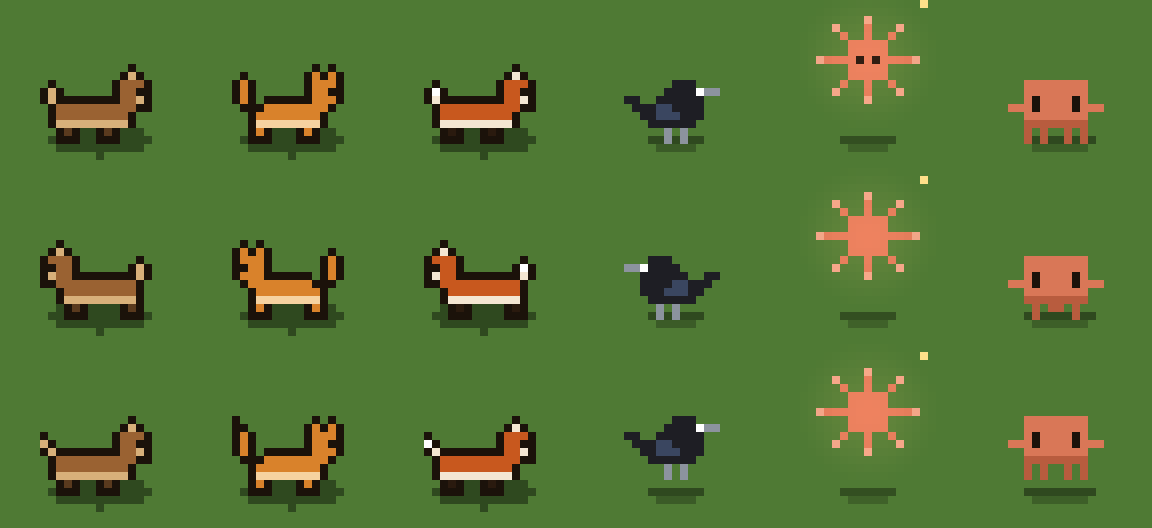
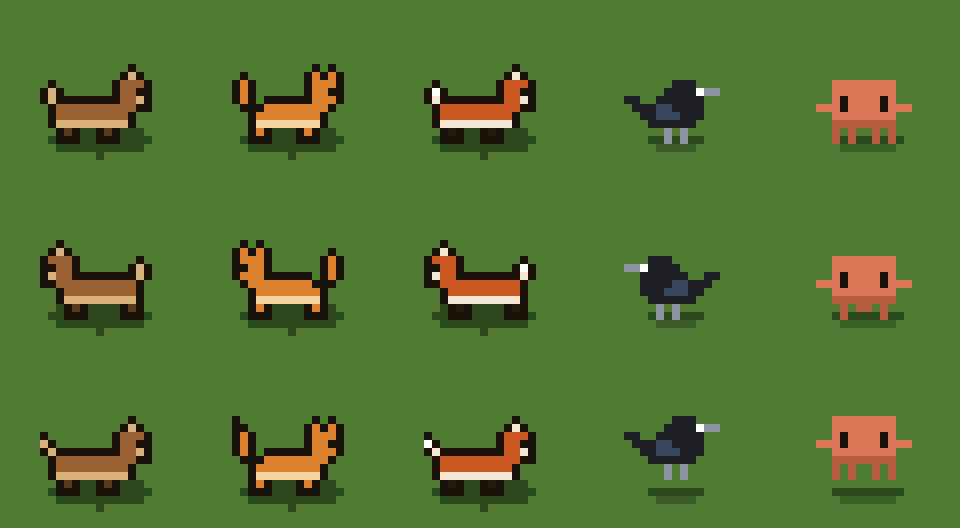
Update Ullr site from ullr@572a34f

diff --git a/ullr/docs/game.fr.md b/ullr/docs/game.fr.md
@@ -67,11 +67,15 @@ Rendez-vous au **miroir** pour habiller votre archer. L’aperçu reste en haut 
 | Coiffe | Casque, toque de fourrure, couronne de fleurs, bandeau |
 | Accessoire | Mantelet de fourrure, écharpe, amulette marteau, lunettes |
 
-**Au hasard** choisit une apparence au hasard. Votre archer tient le type de votre premier arc : classique, olympique, à poulies ou arc long.
+**Au hasard** choisit une apparence au hasard. Votre archer tient le type de votre premier arc : arc nu, arc classique ou arc à poulies.
+
+**Archers légendaires.** En haut du miroir, quatre archers tout prêts règlent toute l’apparence et le compagnon en une touche : **Artémis**, déesse grecque de la chasse, avec son chien ; **Ullr**, dieu nordique du tir à l’arc et de l’hiver, en fourrures, avec un corbeau ; **Robin des Bois**, tout en vert, avec un renard ; et **Hou Yi**, l’archer chinois qui abattit neuf soleils. Changez ensuite ce que vous voulez.
+
+![Les quatre archers légendaires de face, de profil et de dos : Artémis et son chien, Ullr et un corbeau, Robin des Bois et un renard, et Hou Yi.](images/game-legends.png){ width="420" .pixel }
 
 ## Les compagnons
 
-Choisissez un compagnon au miroir : un **chien**, un **chat**, un **renard**, un **corbeau** ou une petite **étincelle**. Il suit le chemin parcouru par votre archer, environ un pas derrière, sans jamais traverser les meubles, et s’assoit à côté de vous quand vous vous arrêtez. Le chien, le chat et le renard trottinent et remuent la queue, le corbeau sautille, et l’étincelle flotte et scintille.
+Choisissez un compagnon au miroir : un **chien**, un **chat**, un **renard**, ou un **corbeau** (et un autre à découvrir). Il suit le chemin parcouru par votre archer, environ un pas derrière, sans jamais traverser les meubles, et s’assoit à côté de vous quand vous vous arrêtez. Le chien, le chat et le renard trottinent et remuent la queue, et le corbeau sautille.
 
 ![Les quatre compagnons animaux : un chien, un chat, un renard et un corbeau.](images/game-companions.png){ width="420" .pixel }
 

diff --git a/ullr/docs/game.md b/ullr/docs/game.md
@@ -67,11 +67,15 @@ Walk to the **mirror** to dress your archer. The preview stays at the top while 
 | Headwear | Helmet, fur hat, flower crown, headband |
 | Accessory | Fur mantle, scarf, hammer amulet, glasses |
 
-**Surprise me** (*Au hasard*) picks a random look. Your archer holds the type of your first bow: recurve, Olympic recurve, compound or longbow.
+**Surprise me** (*Au hasard*) picks a random look. Your archer holds the type of your first bow: barebow, recurve or compound.
+
+**Legendary archers.** At the top of the mirror, four ready-made archers set the whole look and companion in one tap: **Artemis**, Greek goddess of the hunt, with her hound; **Ullr**, Norse god of archery and winter, in furs, with a raven; **Robin Hood** in Lincoln green, with a fox; and **Hou Yi**, the Chinese archer who shot down nine suns. Change any piece after.
+
+![The four legendary archers from the front, side and back: Artemis with her hound, Ullr with a raven, Robin Hood with a fox, and Hou Yi.](images/game-legends.png){ width="420" .pixel }
 
 ## Companions
 
-Choose a companion at the mirror: a **dog**, a **cat**, a **fox**, a **raven**, or a little **spark**. It follows the path your archer walked, about a step behind, so it never cuts through the furniture, and sits beside you when you stop. The dog, cat and fox trot and wag their tails, the raven hops, and the spark floats and twinkles.
+Choose a companion at the mirror: a **dog**, a **cat**, a **fox**, or a **raven** (and one more to discover). It follows the path your archer walked, about a step behind, so it never cuts through the furniture, and sits beside you when you stop. The dog, cat and fox trot and wag their tails, and the raven hops.
 
 ![The four animal companions: a dog, a cat, a fox and a raven.](images/game-companions.png){ width="420" .pixel }
 

diff --git a/ullr/docs/index.fr.md b/ullr/docs/index.fr.md
@@ -105,7 +105,7 @@ Activez le **mode jeu** dans les réglages et Ullr devient un petit jeu en pixel
 
 | | |
 |---|---|
-| **Toutes vos séances** | Lieu, date, type d'arc (traditionnel, classique, olympique, à poulies) et arc, distance, blason, nombre de blasons sur la butte, n'importe quel nombre de flèches par volée. |
+| **Toutes vos séances** | Lieu, date, discipline (tir sur cible, en campagne, 3D ou para-tir à l’arc), type d'arc (arc nu, classique ou à poulies) et arc, distance, blason, nombre de blasons sur la butte, n'importe quel nombre de flèches par volée. |
 | **Votre règle de comptage** | X = 10, 10 intérieur seulement (arc à poulies World Archery) ou X = 11, choisie pour chaque séance, avec une valeur par défaut dans les réglages. Changez-la plus tard : tous les totaux sont recalculés. |
 | **Le service d'IA de votre choix** | Anthropic (Claude), Google (Gemini) ou OpenAI, avec votre propre clé API. Les trois reçoivent les mêmes consignes. |
 | **Pensé pour le pas de tir** | Pas de réseau ? Les photos sont enregistrées et comptées dès que le téléphone est de nouveau en ligne. Vous pouvez toujours saisir une volée à la main. |

diff --git a/ullr/docs/roadmap.fr.md b/ullr/docs/roadmap.fr.md
@@ -14,6 +14,7 @@ Ullr est un projet personnel, construit au grand jour. Voici où il en est.
 - [x] Français et anglais
 - [x] La confidentialité dès la conception : photos recadrées sur la cible, données cachées retirées, rien sur vous ni sur votre téléphone n'est envoyé
 - [x] Ullr Demo, avec six mois de séances d'exemple pour essayer chaque écran
+- [x] Les types d’arc des divisions World Archery (arc nu, classique, à poulies), et la discipline de chaque séance (tir sur cible, en campagne, 3D ou para-tir à l’arc)
 - [x] Trois styles : Original, Jour de tir (pour le plein soleil) et Tir de nuit (pour l’intérieur), avec les scores dans la couleur de leur zone
 - [x] Mode jeu (aperçu) : la maison et le pas de tir en pixel art, on marche jusqu’à un endroit pour l’ouvrir, votre propre archer, des compagnons, de la musique et des sons, et tous les écrans au style du jeu ; vos statistiques au coin du feu, et la volée à vérifier au porte-flèches
 

diff --git a/ullr/docs/index.md b/ullr/docs/index.md
@@ -105,7 +105,7 @@ Turn on **game mode** in Settings and Ullr becomes a small pixel-art game: tap t
 
 | | |
 |---|---|
-| **Any session** | Place, date, bow type (traditional, recurve, olympic, compound) and bow, distance, target face, number of paper faces, any number of arrows per end. |
+| **Any session** | Place, date, discipline (target, field, 3D or para archery), bow type (barebow, recurve or compound) and bow, distance, target face, number of paper faces, any number of arrows per end. |
 | **Your scoring rule** | X = 10, inner 10 only (World Archery compound) or X = 11, chosen per session, with a default in Settings. Change it later and every total is recalculated. |
 | **The AI service of your choice** | Anthropic (Claude), Google (Gemini) or OpenAI, with your own API key. All three get the same instructions. |
 | **Works at the range** | No signal? Photos are saved and scored when the phone is back online. You can always score an end by hand. |

diff --git a/ullr/docs/guide.fr.md b/ullr/docs/guide.fr.md
@@ -85,7 +85,8 @@ La clé est chiffrée sur le téléphone. Elle n'est plus jamais affichée, et *
 2. Remplissez la séance :
     - **Lieu** : tapez-en un nouveau, ou choisissez-en un déjà utilisé.
     - **Date** : maintenant, par défaut.
-    - **Type d'arc** et **arc**. Les valeurs par défaut de l'arc remplissent le reste.
+    - **Discipline** : tir sur cible (par défaut), tir en campagne, tir 3D ou para-tir à l’arc.
+    - **Type d'arc** (arc nu, arc classique ou arc à poulies) et **arc**. Les valeurs par défaut de l'arc remplissent le reste.
     - **Distance**, **blason**, **blasons sur la butte** (pour les trispots : combien il y en a sur la butte, par exemple 2 blasons = 6 spots) et **flèches par volée** (n'importe quel nombre, souvent 3 ou 6).
     - **Comptage** : la règle, proposée d'après les réglages et le type d'arc. Voir [Règles de comptage](#regles-de-comptage).
 

diff --git a/ullr/docs/roadmap.md b/ullr/docs/roadmap.md
@@ -14,6 +14,7 @@ Ullr is a personal project, built in the open. Here's where it stands.
 - [x] English and French
 - [x] Privacy by design: photos trimmed to the target, hidden data removed, nothing about you or your phone sent
 - [x] Ullr Demo, with six months of sample sessions to try every screen
+- [x] Bow types as World Archery's divisions (barebow, recurve, compound), and the discipline of each session (target, field, 3D or para archery)
 - [x] Three looks: Original, Range day (for sunlight) and Night range (for indoors), with scores in their ring colours
 - [x] Game mode (preview): the hall and the range in pixel art, walk to a place to open it, your own archer, companions, music and sounds, and every screen in the game look; your statistics by the hearth, and the end to check at the arrow stand
 

diff --git a/ullr/docs/guide.md b/ullr/docs/guide.md
@@ -85,7 +85,8 @@ The key is stored encrypted on the phone. It is never shown again, and **Remove 
 2. Fill in the session:
     - **Place** (*Lieu*): type a new one, or pick one you used before.
     - **Date**: now by default.
-    - **Bow type** and **bow**. The bow's defaults fill in the rest.
+    - **Discipline**: target archery (the default), field archery, 3D archery or para archery.
+    - **Bow type** (barebow, recurve bow or compound bow) and **bow**. The bow's defaults fill in the rest.
     - **Distance**, **target face**, **paper faces** (for 3-spot faces: how many are on the boss, for example 2 faces = 6 spots), and **arrows per end** (any number, often 3 or 6).
     - **Scoring rule**: set from Settings and the bow type. See [Scoring rules](#scoring-rules).
 
